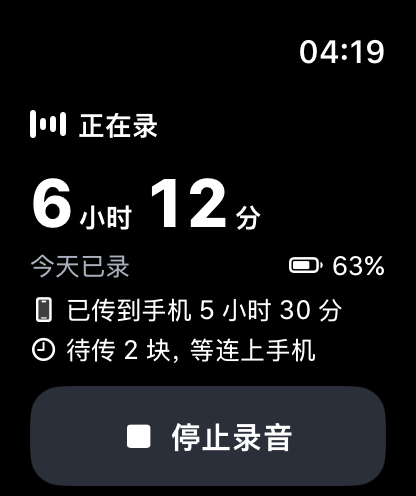
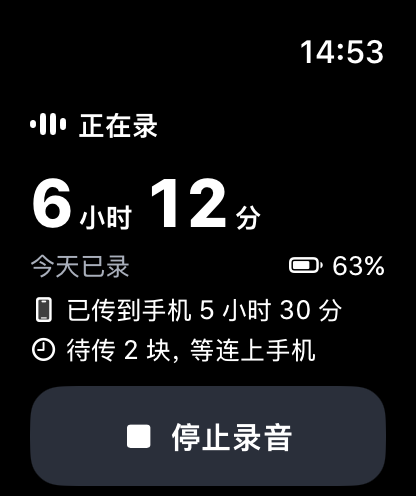
fix(fanear): 手表「正在录」截图换成北京时间下午重拍的（表上 14:53，原来是 04:19）
饭耳 main 7a041522（含 0.2.0 合并 8a16607）用 sim-shots --watch recording 重拍，界面字与旧图一致（待传 2 块，等连上手机）。

Claude-Session-Id: bd05e73c-656f-4a68-816e-5980c4951924

Changed region(s): [[0.7188, 0.0605, 0.9375, 0.1512], [0.0625, 0.2117, 0.1562, 0.2722]]

diff --git a/sites/fanear/src/lib/shots.ts b/sites/fanear/src/lib/shots.ts
@@ -161,8 +161,8 @@ export const SHOTS = {
 		device: 'watch',
 		caption: '正在录',
 		alt: '手表正在录：今天已录 6 小时 12 分，电量 63%，已传到手机 5 小时 30 分，待传 2 块、等连上手机，下面是「停止录音」按钮。',
-		// 表上的时钟是拍摄时的 04:19（watchOS 模拟器改不了时钟），北京时间下午再重拍这一张
-		from: `${STORE}/watch-recording.png`,
+		// 表上的时钟是拍摄时的北京时间（watchOS 模拟器改不了时钟）：10-16 14:53 重拍，对得上这一天下午的演示
+		from: 'fanear/本地资料/website-020-20261015/shots-watch-1016-1450/watch-recording.png',
 		redo: [],
 	},
 	watchInterrupted: {
